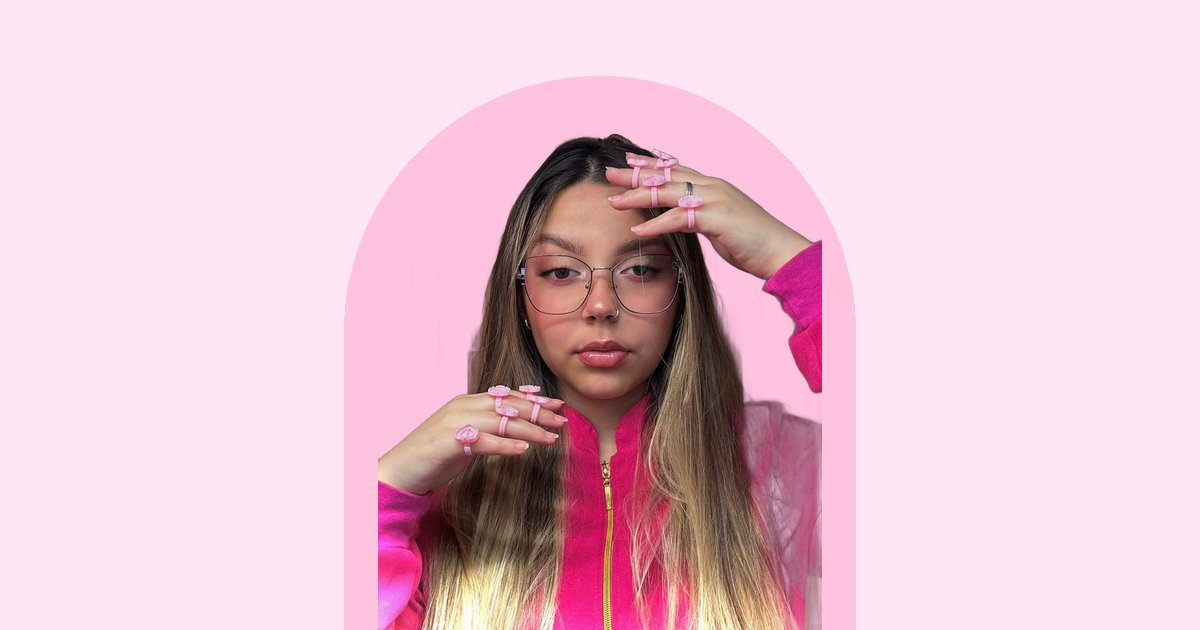
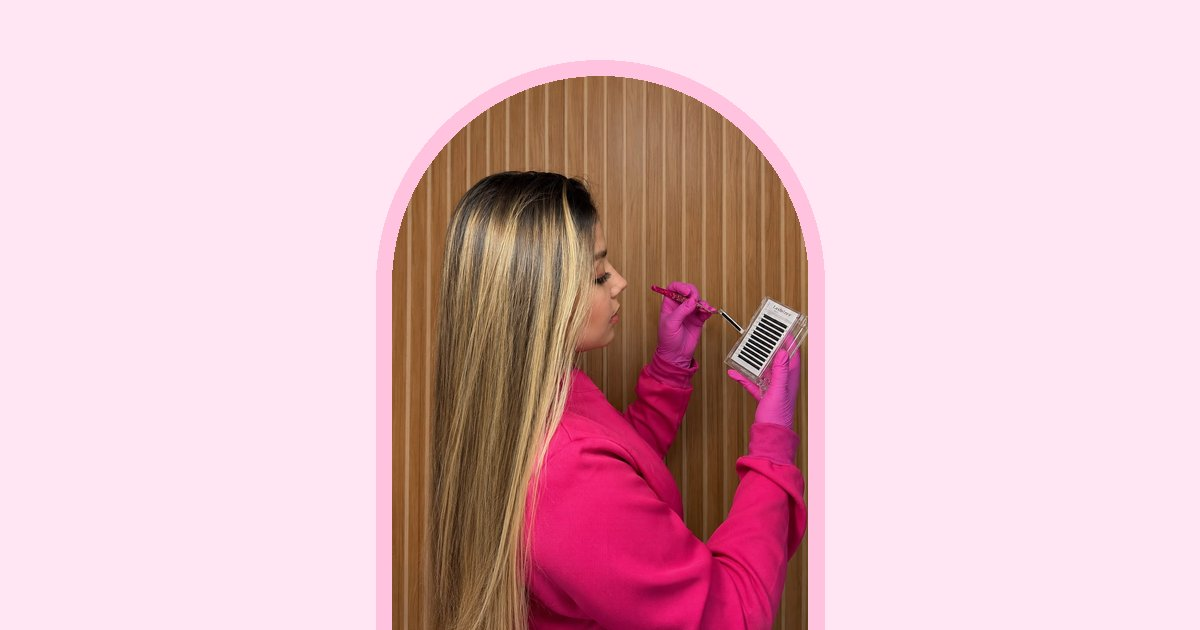
git commit -m "feat: foto de perfil no arco para o Google, Sobre o Studio e descrições do 3D e 4D"

diff --git a/src/pages/robots.txt.ts b/src/pages/robots.txt.ts
@@ -1,8 +1,15 @@
 import type { APIRoute } from "astro";
 import { siteConfig } from "@/config/site";
 
-/** Diz aos buscadores que podem ler o site todo e onde fica o sitemap. */
-export const GET: APIRoute = () =>
-  new Response(`User-agent: *\nAllow: /\n\nSitemap: ${new URL("/sitemap.xml", siteConfig.url).href}\n`, {
+/**
+ * Diz aos buscadores que podem ler o site, menos as pastas em `hiddenFromSearch`
+ * (fotos que o cliente não quer no Google), e onde fica o sitemap.
+ */
+export const GET: APIRoute = () => {
+  const hidden = siteConfig.hiddenFromSearch.map((path) => `Disallow: ${path}`);
+  const lines = ["User-agent: *", "Allow: /", ...hidden, "", `Sitemap: ${new URL("/sitemap.xml", siteConfig.url).href}`];
+
+  return new Response(`${lines.join("\n")}\n`, {
     headers: { "Content-Type": "text/plain; charset=utf-8" },
   });
+};

diff --git a/src/config/site.ts b/src/config/site.ts
@@ -24,10 +24,16 @@ export const siteConfig = {
   /** Imagem que aparece ao compartilhar o link e que o Google pode usar na busca (gerada por scripts/optimize_photos.py) */
   socialImage: {
     src: "/images/social.jpg",
-    alt: "Studio KB Beauty: cílios e sobrancelhas",
+    alt: "Profissional do Studio KB Beauty aplicando extensão de cílios",
     width: 1200,
     height: 630,
   },
+
+  /**
+   * Imagens que não devem aparecer em buscadores (Google Imagens, miniatura do resultado).
+   * Ex.: fotos da própria cliente. Continuam visíveis normalmente no site.
+   */
+  hiddenFromSearch: ["/images/hero/", "/images/sobre/", "/images/full/sobre/"],
 
   region: "Zona Leste de São Paulo",
   regionNote: "O endereço é enviado no momento do agendamento.",

diff --git a/src/data/services.ts b/src/data/services.ts
@@ -31,13 +31,13 @@ export const serviceCategories: ServiceCategory[] = [
       {
         slug: "divine-bloom-3d",
         name: "Volume Divine Bloom 3D",
-        description: "Manutenção a cada 20 dias.",
+        description: "Leques com 3 fios em cada cílio natural, para um olhar cheio e marcante, mas ainda leve. Manutenção a cada 20 dias.",
         image: "/images/servicos/divine-bloom-3d.webp",
       },
       {
         slug: "volume-4d",
         name: "Volume 4D",
-        description: "Manutenção a cada 20 dias.",
+        description: "Leques com 4 fios em cada cílio natural: mais densidade e um efeito mais intenso que o 3D. Manutenção a cada 20 dias.",
         image: "/images/servicos/volume-4d.webp",
       },
       {

diff --git a/src/data/content.ts b/src/data/content.ts
@@ -64,7 +64,7 @@ export const gallery: GalleryImage[] = [
 ];
 
 export const about = {
-  title: "Sobre o estúdio",
+  title: "Sobre o Studio",
   instagramLabel: "Acompanhe no Instagram",
   // TODO: trocar por um texto dela, em primeira pessoa (trajetória, cursos, o que ama no trabalho)
   paragraphs: [

diff --git a/scripts/optimize_photos.py b/scripts/optimize_photos.py
@@ -10,7 +10,8 @@ para outro, só o JSON). Cada entrada:
 - center: centro do recorte, em fração da largura e da altura
 - aspect: "square" (1:1), "portrait" (4:5), "cutout" (recorte com fundo transparente)
   ou "social" (1200x630, a imagem que aparece ao compartilhar o link e no Google)
-- background / arch (só no "social" com recorte): cor do fundo e do arco atrás da pessoa
+- background / arch (só no "social"): cor do fundo e do arco. Com recorte, a pessoa fica sobre o fundo;
+  com foto comum, a foto inteira fica dentro do arco
 
 Para cada foto (menos recortes) também sai uma versão inteira, sem corte, em
 public/images/full/<mesmo caminho>: é a que abre em tela cheia quando a pessoa toca na foto.
@@ -67,22 +68,45 @@ def make_cutout(im: Image.Image) -> Image.Image:
     return im.resize((round(im.width * CUTOUT_HEIGHT / im.height), CUTOUT_HEIGHT), Image.Resampling.LANCZOS)
 
 
-def make_social(im: Image.Image, item: dict) -> Image.Image:
-    """Imagem de compartilhamento: recorte sobre fundo com arco, ou foto comum recortada."""
-    w, h = SOCIAL_SIZE
-    if im.mode != "RGBA":
-        return crop_to_ratio(im.convert("RGB"), w / h, tuple(item.get("center", (0.5, 0.5)))).resize(SOCIAL_SIZE, Image.Resampling.LANCZOS)
+def draw_arch(canvas: Image.Image, width: int, top: int, color: str) -> None:
+    """Desenha um arco (retângulo com o topo arredondado) centralizado e encostado embaixo."""
+    w, h = canvas.size
+    ImageDraw.Draw(canvas).rounded_rectangle(
+        ((w - width) // 2, top, (w + width) // 2, h + width // 2), radius=width // 2, fill=color
+    )
 
-    canvas = Image.new("RGB", SOCIAL_SIZE, item.get("background", "#ffffff"))
-    person = make_cutout(im)
-    person = person.resize((round(person.width * h * 0.94 / person.height), round(h * 0.94)), Image.Resampling.LANCZOS)
-    x = (w - person.width) // 2
+
+def make_social(im: Image.Image, item: dict) -> Image.Image:
+    """
+    Imagem de compartilhamento (1200x630). Três formatos, conforme a foto e o JSON:
+    - recorte (PNG sem fundo): a pessoa sobre a cor de fundo, com arco atrás;
+    - foto comum com "background": a foto inteira dentro de um arco, sobre a cor de fundo;
+    - foto comum sem "background": a foto recortada para preencher tudo.
+    """
+    w, h = SOCIAL_SIZE
+    if im.mode == "RGBA":
+        canvas = Image.new("RGB", SOCIAL_SIZE, item.get("background", "#ffffff"))
+        person = make_cutout(im)
+        person = person.resize((round(person.width * h * 0.94 / person.height), round(h * 0.94)), Image.Resampling.LANCZOS)
+        if "arch" in item:
+            draw_arch(canvas, round(person.width * 1.15), round(h * 0.12), item["arch"])
+        canvas.paste(person, ((w - person.width) // 2, h - person.height), person)
+        return canvas
+
+    im = im.convert("RGB")
+    if "background" not in item:
+        return crop_to_ratio(im, w / h, tuple(item.get("center", (0.5, 0.5)))).resize(SOCIAL_SIZE, Image.Resampling.LANCZOS)
+
+    # Foto inteira em retrato (3:4) dentro de um arco, com uma borda do arco em volta
+    canvas = Image.new("RGB", SOCIAL_SIZE, item["background"])
+    frame_h = round(h * 0.88)
+    frame_w = round(frame_h * 3 / 4)
     if "arch" in item:
-        arch_w = round(person.width * 1.15)
-        ImageDraw.Draw(canvas).rounded_rectangle(
-            ((w - arch_w) // 2, round(h * 0.12), (w + arch_w) // 2, h + arch_w // 2), radius=arch_w // 2, fill=item["arch"]
-        )
-    canvas.paste(person, (x, h - person.height), person)
+        draw_arch(canvas, frame_w + 32, h - frame_h - 16, item["arch"])
+    photo = crop_to_ratio(im, 3 / 4, tuple(item.get("center", (0.5, 0.5)))).resize((frame_w, frame_h), Image.Resampling.LANCZOS)
+    mask = Image.new("L", photo.size, 0)
+    ImageDraw.Draw(mask).rounded_rectangle((0, 0, frame_w, frame_h + frame_w), radius=frame_w // 2, fill=255)
+    canvas.paste(photo, ((w - frame_w) // 2, h - frame_h), mask)
     return canvas
 
 
